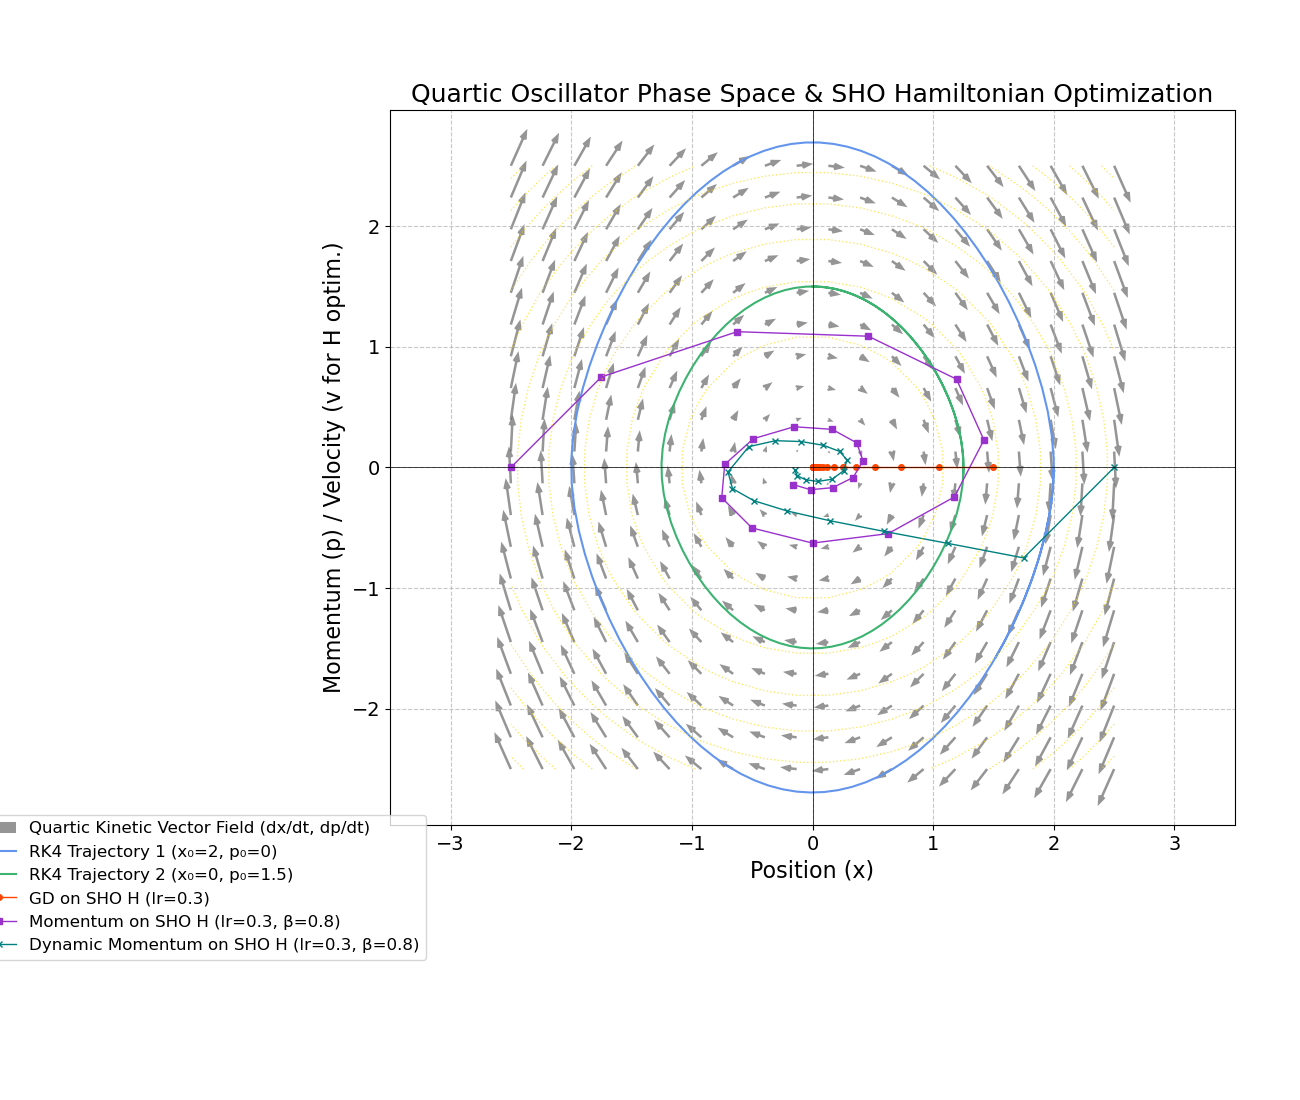
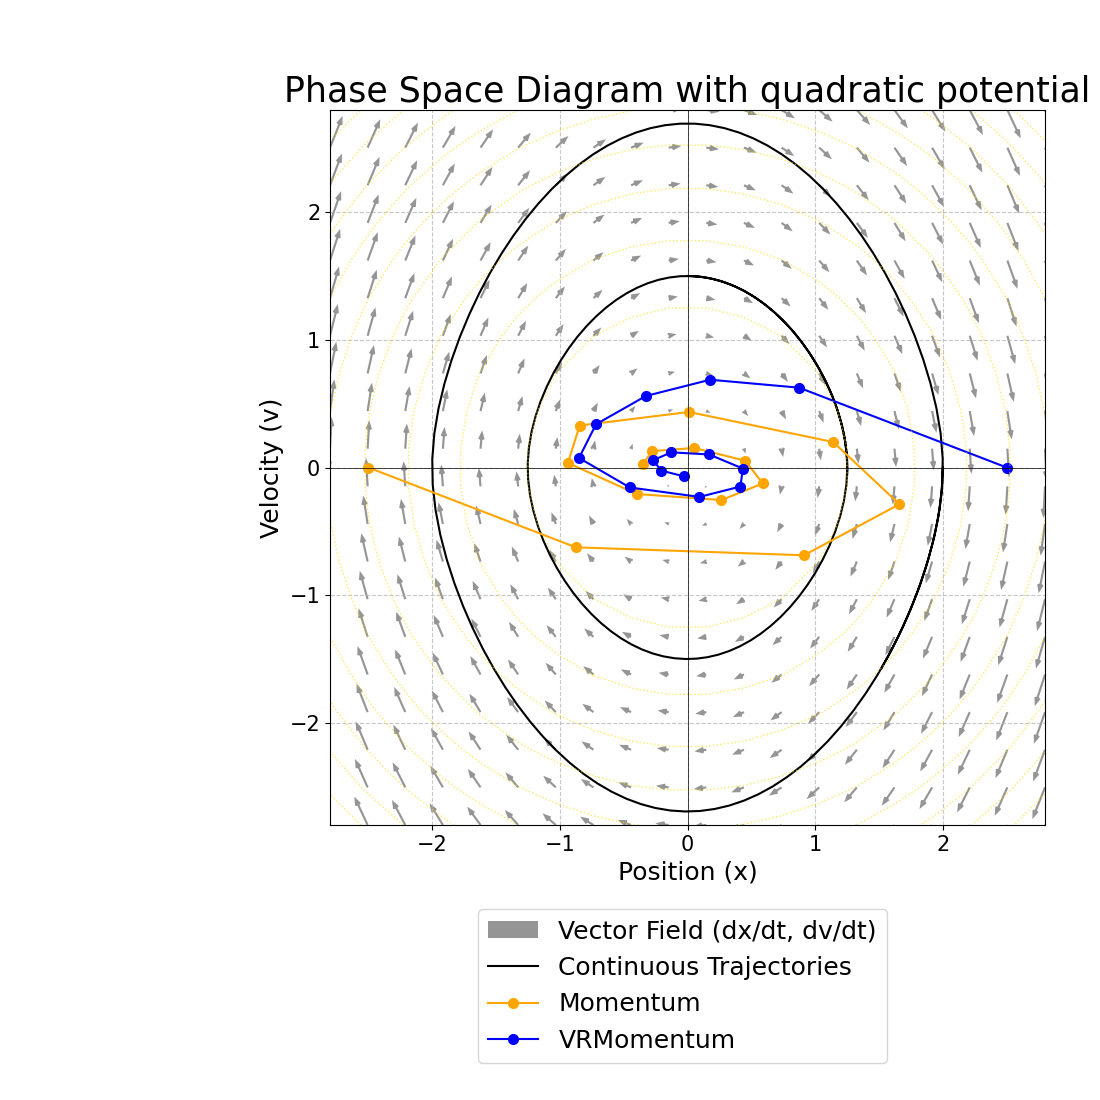
new figures

diff --git a/sho_phase_space_plot.py b/sho_phase_space_plot.py
@@ -7,16 +7,16 @@ OMEGA_SQ = 1.0      # ω^2 = k/m for SHO (used for Hamiltonian contours & optimi
 M = 1.0             # Mass for Hamiltonian optimization. With M=1, H = 0.5*ω²*x² + 0.5*v²
 DT_EULER = 0.1      # Time step for Euler integration
 N_STEPS_EULER = 100 # Number of steps for Euler trajectories
-LR = 0.3     # Learning rate for all
-BETA_MOMENTUM = 0.8 # Momentum factor (β)
-N_STEPS_OPTIM = 20  # Number of steps for optimization trajectories
+LR = 0.26*10   # Learning rate for all
+BETA_MOMENTUM = 0.75 # Momentum factor (β)
+N_STEPS_OPTIM = 14  # Number of steps for optimization trajectories
 PLOT_FILENAME = "sho_phase_space_optimization.png"
 
 # --- Font Size Configuration ---
-TITLE_FONTSIZE = 18
-AXIS_LABEL_FONTSIZE = 16
-AXIS_TICK_FONTSIZE = 14
-LEGEND_FONTSIZE = 12
+TITLE_FONTSIZE = 25
+AXIS_LABEL_FONTSIZE = 18
+AXIS_TICK_FONTSIZE = 15
+LEGEND_FONTSIZE = 18
 # --- End Font Size Configuration ---
 
 # --- 1. Vector Field Definition (Quartic Kinetic Oscillator) ---
@@ -123,8 +123,9 @@ def momentum_step(x_curr, v_curr, mom_x_prev, mom_v_prev, lr, beta, m_param, ome
     # v_next = v_curr - mom_v_curr
     # return x_next, v_next, mom_x_curr, mom_v_curr
     print("Placeholder: momentum_step called. Please implement.")
-    v_next= beta*v_curr - lr* x_curr
-    x_next= x_curr + v_next
+    # v_next= beta*v_curr - lr* x_curr
+    v_next= beta*v_curr +(1-beta)* x_curr
+    x_next= x_curr -lr* v_next
     return x_next, v_next, mom_x_prev, mom_v_prev # Return current to avoid error
 
 def dynamic_momentum_step(x_curr, v_curr, mom_x_prev, mom_v_prev, lr, beta, m_param, omega_sq_param, total_steps, current_step):
@@ -142,8 +143,8 @@ def dynamic_momentum_step(x_curr, v_curr, mom_x_prev, mom_v_prev, lr, beta, m_pa
     # v_next = v_curr - mom_v_curr
     # return x_next, v_next, mom_x_curr, mom_v_curr
 
-    v_next= beta*v_curr - lr/(1+30*v_curr*v_curr)* x_curr
-    x_next= x_curr + v_next
+    v_next= beta*v_curr +(1-beta)* x_curr
+    x_next= x_curr -lr/(1+ 4*v_curr*v_curr)* v_next
     print("Placeholder: dynamic_momentum_step called. Please implement.")
     return x_next, v_next, mom_x_prev, mom_v_prev # Return current to avoid error
 
@@ -183,52 +184,52 @@ def compute_optimizer_trajectory(x0, v0, optimizer_type, lr, n_steps, m_param, o
 def plot_phase_space_and_optimization(file_name=PLOT_FILENAME):
     """Creates and saves the combined plot."""
     # Define grid for vector field
-    imrange = 2.5
+    imrange = 2.8
     x_range = np.linspace(-imrange, imrange, 20)
     p_range = np.linspace(-imrange, imrange, 20) 
     X_grid, P_grid = np.meshgrid(x_range, p_range) 
     DX_field, DP_field = quartic_kinetic_vector_field(X_grid, P_grid) 
 
-    plt.figure(figsize=(13, 11)) # Increased figure size for external legend
+    plt.figure(figsize=(11, 11)) # Increased figure size for external legend
 
     # Plot vector field (quiver plot)
     plt.quiver(X_grid, P_grid, DX_field, DP_field, color='dimgray', alpha=0.7, 
-               label="Quartic Kinetic Vector Field (dx/dt, dp/dt)", headwidth=3, headlength=4, width=0.003)
+               label="Vector Field (dx/dt, dv/dt)", headwidth=3, headlength=4, width=0.003)
 
     # Plot RK4 trajectories for the quartic system
     x_e1, p_e1 = rk4_trajectory(x0=2.0, p0=0.0, dt=DT_EULER, n_steps=N_STEPS_EULER)
-    plt.plot(x_e1, p_e1, label="RK4 Trajectory 1 (x₀=2, p₀=0)", color='cornflowerblue', linewidth=1.5)
+    plt.plot(x_e1, p_e1, label="Continuous Trajectories", color='black', linewidth=1.5)
     
     x_e2, p_e2 = rk4_trajectory(x0=0.0, p0=1.5, dt=DT_EULER, n_steps=N_STEPS_EULER)
-    plt.plot(x_e2, p_e2, label="RK4 Trajectory 2 (x₀=0, p₀=1.5)", color='mediumseagreen', linewidth=1.5)
+    plt.plot(x_e2, p_e2,  color='black', linewidth=1.5)
 
-    # Plot Gradient Descent trajectory on SHO Hamiltonian
-    x_gd, v_gd = compute_optimizer_trajectory(x0=1.5, v0=0.0, optimizer_type="gd", 
-                                               lr=LR, n_steps=N_STEPS_OPTIM, 
-                                               m_param=M, omega_sq_param=OMEGA_SQ)
-    if x_gd.size > 0 : plt.plot(x_gd, v_gd, 'o-', label=f"GD on SHO H (lr={LR})", color='orangered', markersize=4, linewidth=1)
+    # # Plot Gradient Descent trajectory on SHO Hamiltonian
+    # x_gd, v_gd = compute_optimizer_trajectory(x0=1.5, v0=0.0, optimizer_type="gd", 
+    #                                            lr=LR, n_steps=N_STEPS_OPTIM, 
+    #                                            m_param=M, omega_sq_param=OMEGA_SQ)
+    # if x_gd.size > 0 : plt.plot(x_gd, v_gd, 'o-', label=f"GD on SHO H (lr={LR})", color='orangered', markersize=4, linewidth=1)
 
     # Plot Momentum trajectory on SHO Hamiltonian
     x_mom, v_mom = compute_optimizer_trajectory(x0=-2.5, v0=0.0, optimizer_type="momentum", 
                                                  lr=LR, n_steps=N_STEPS_OPTIM, 
                                                  m_param=M, omega_sq_param=OMEGA_SQ, beta=BETA_MOMENTUM)
-    if x_mom.size > 0 : plt.plot(x_mom, v_mom, 's-', label=f"Momentum on SHO H (lr={LR}, β={BETA_MOMENTUM})", 
-                                   color='darkorchid', markersize=4, linewidth=1)
+    if x_mom.size > 0 : plt.plot(x_mom, v_mom, 's-', label=f"Momentum", 
+                                   color='orange', markersize=7, linewidth=1.5, marker= 'o')
 
     # Plot Dynamic Momentum trajectory on SHO Hamiltonian (placeholder plot)
     x_dyn_mom, v_dyn_mom = compute_optimizer_trajectory(x0=2.5, v0=0.0, optimizer_type="dynamic_momentum",
                                                          lr=LR, n_steps=N_STEPS_OPTIM,
                                                          m_param=M, omega_sq_param=OMEGA_SQ, beta=BETA_MOMENTUM)
-    if x_dyn_mom.size > 0 : plt.plot(x_dyn_mom, v_dyn_mom, 'x-', label=f"Dynamic Momentum on SHO H (lr={LR}, β={BETA_MOMENTUM})",
-                                     color='teal', markersize=4, linewidth=1)
+    if x_dyn_mom.size > 0 : plt.plot(x_dyn_mom, v_dyn_mom, 'x-', label=f"VRMomentum",
+                                     color='blue', markersize=7, linewidth=1.5, marker='o')
 
     # Plot SHO Hamiltonian contours (using P_grid as the velocity component for H)
     H_contours = hamiltonian(X_grid, P_grid, M, OMEGA_SQ)
     plt.contour(X_grid, P_grid, H_contours, levels=10, colors='gold', alpha=0.6, linestyles='dotted', linewidths=1)
 
     plt.xlabel("Position (x)", fontsize=AXIS_LABEL_FONTSIZE)
-    plt.ylabel("Momentum (p) / Velocity (v for H optim.)", fontsize=AXIS_LABEL_FONTSIZE)
-    plt.title(f"Quartic Oscillator Phase Space & SHO Hamiltonian Optimization", fontsize=TITLE_FONTSIZE)
+    plt.ylabel("Velocity (v)", fontsize=AXIS_LABEL_FONTSIZE)
+    plt.title(f"Phase Space Diagram with quadratic potential", fontsize=TITLE_FONTSIZE)
     plt.xticks(fontsize=AXIS_TICK_FONTSIZE)
     plt.yticks(fontsize=AXIS_TICK_FONTSIZE)
     plt.axhline(0, color='black', lw=0.5)
@@ -240,7 +241,7 @@ def plot_phase_space_and_optimization(file_name=PLOT_FILENAME):
     plt.axis('equal') 
 
     # Adjust legend to be outside the plot using user's specified anchor
-    plt.legend(loc='lower left' ,bbox_to_anchor=(-0.5, -0.2), fontsize=LEGEND_FONTSIZE)
+    plt.legend(loc='lower left' ,bbox_to_anchor=(0.19, -0.35), fontsize=LEGEND_FONTSIZE)
     
     plt.grid(True, linestyle='--', alpha=0.7)
     

diff --git a/plot_adam_comparsion.py b/plot_adam_comparsion.py
@@ -84,7 +84,7 @@ try:
     
     # 1. Plot training losses
     plt.subplot(2, 2, 1)
-    plt.plot(np.arange(len(vadam_train_loss)), vadam_train_loss, label="VADAM")
+    plt.plot(np.arange(len(vadam_train_loss)), vadam_train_loss, label="VRAdam")
     plt.plot(np.arange(len(adam_train_loss)), adam_train_loss, label="Adam")
     plt.title("Training Loss Comparison", fontsize=TITLE_FONT_SIZE)
     plt.xlabel("Iteration", fontsize=AXIS_LABEL_FONT_SIZE)
@@ -97,7 +97,7 @@ try:
     
     # 2. Plot training accuracy
     plt.subplot(2, 2, 2)
-    plt.plot(np.arange(len(vadam_train_acc)), vadam_train_acc, label="VADAM")
+    plt.plot(np.arange(len(vadam_train_acc)), vadam_train_acc, label="VRAdam")
     plt.plot(np.arange(len(adam_train_acc)), adam_train_acc, label="Adam")
     plt.title("Training Accuracy Comparison", fontsize=TITLE_FONT_SIZE)
     plt.xlabel("Iteration", fontsize=AXIS_LABEL_FONT_SIZE)
@@ -144,6 +144,8 @@ try:
         plt.xticks(fontsize=AXIS_TICK_FONT_SIZE)
         plt.yticks(fontsize=AXIS_TICK_FONT_SIZE)
         plt.ticklabel_format(style='sci', axis='y', scilimits=(0,0))
+        ax = plt.gca() # Get current axes
+        ax.yaxis.get_offset_text().set_fontsize(AXIS_LABEL_FONT_SIZE) # Increase exponent font size
         plt.legend(fontsize=LEGEND_FONT_SIZE)
         plt.grid(True)
     
@@ -170,6 +172,8 @@ try:
     plt.xticks(fontsize=AXIS_TICK_FONT_SIZE)
     plt.yticks(fontsize=AXIS_TICK_FONT_SIZE)
     plt.ticklabel_format(style='sci', axis='y', scilimits=(0,0))
+    ax = plt.gca() # Get current axes
+    ax.yaxis.get_offset_text().set_fontsize(AXIS_LABEL_FONT_SIZE) # Increase exponent font size
     plt.legend(fontsize=LEGEND_FONT_SIZE)
     plt.grid(True)
     
